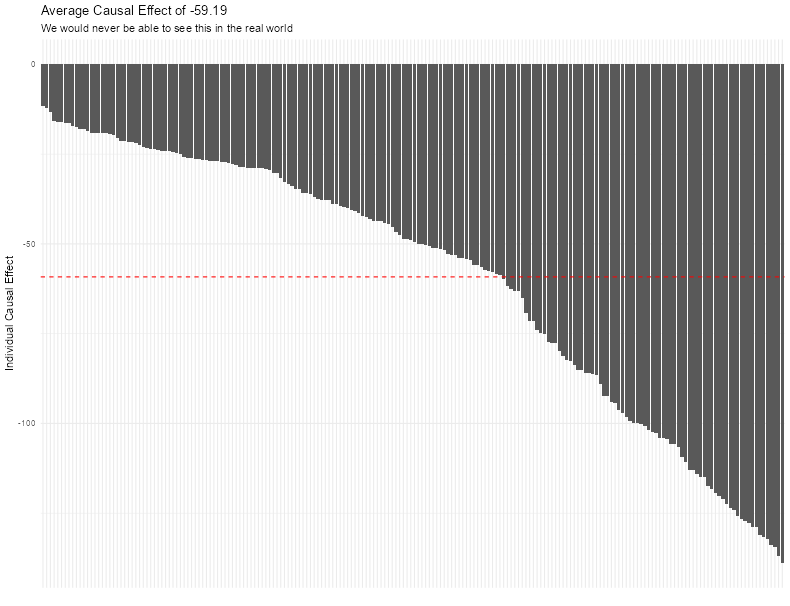
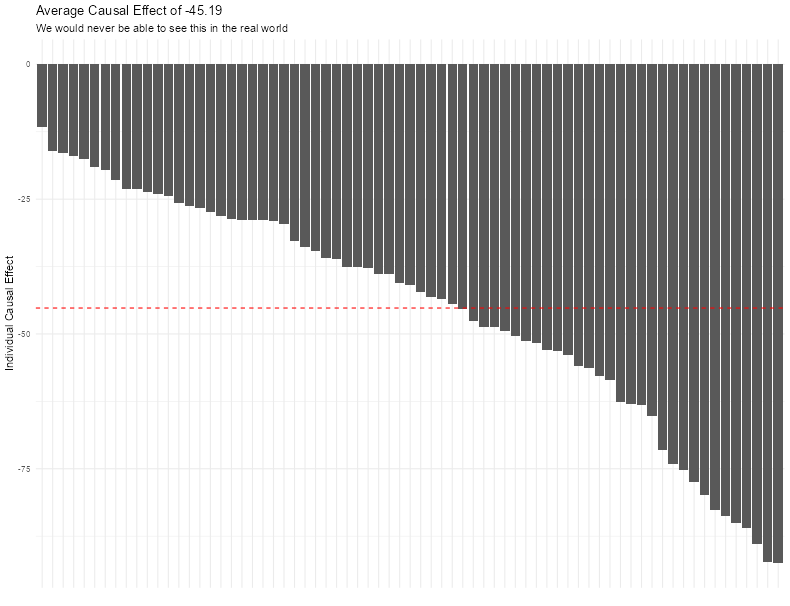
fin bart and bart ci

Changed region(s): [[0.0304, 0.0891, 1.0, 0.9505], [0.0304, 0.0, 0.3646, 0.0594]]

diff --git a/bart.html b/bart.html
@@ -229,10 +229,10 @@
           We'll also make new data points so this feels a little different than the predictive section, but looks the same. <br><br>
 
           <span style="font-weight:bold">Choosing an Estimand</span> <br><br>
-          In this example, we’ll be estimating the effect of the treatment on the treated, or ATT. 
+          In this example, we'll be estimating the effect of the treatment on the treated, or ATT. 
           It appears that every runner under and up to 50 wore HyperShoes. 
           Without runners older than 50 in the treatment group,
-           we don’t have enough available information to infer about counterfactuals for the average treatment effect (ATE)
+           we don't have enough available information to infer about counterfactuals for the average treatment effect (ATE)
           or the effect of the treatment on the controls (ATC) 
           but we do have complete overlap for the ATT,
           and we have enough information to infer about what would have happened if those participants had not worn HyperShoes! <br><br>
@@ -247,7 +247,7 @@
         <p class="topic" data-image="assets/hypershoe-bal-plot.png">
           <strong class="text-2xl">Imbalance</strong><br>
           In observational studies, 
-          the treatment is not randomly assigned and we no longer expect covariates to be balanced between the treatment and control group.
+          the treatment is not randomly assigned and we no longer expect covariates to be balanced <span style="font-style: italic;">in expectation</span> between the treatment and control group.
            So it's not surprising in this study that on average, runners in the treatment group are about 14 years younger than the runners in the control group. <br><br>
 
            We will need to rely on a statistical model to correct this imbalance or else the substantial difference in age will bias our estimate of the ATT.
@@ -288,7 +288,7 @@
         </p>
 
          <p class="topic" data-image="assets/lm-estimates.png">
-          <strong class="text-2xl">Linear Regression</strong><br>
+          <strong class="text-2xl">Regression with All Confounders</strong><br>
           When the relationships between covariates and the outcome are non-linear,
            the linear regression estimate for the ATT is likely to be biased.<br>
           In our situation the estimate is -51.8 which is noticeably different from the true ATT!
@@ -309,8 +309,32 @@
           Identifying which variables need to be transformed or which interaction term would need to be added would quickly become impossible.
         </p>
 
-        <p class="topic">
-          <strong class="text-2xl">Summary</strong><br>
+        <p class="topic" data-image="assets/bart-att.png">
+          <strong class="text-2xl">BART with All Confounders</strong><br>
+          BART does not assume the relationship between the covariates and the response are linear.
+          The BART estimate of the ATT is -44.45 which is the closest!<br><br>
+
+          The BART algorithm automatically learns about any non-linearities and accounts for these and for complex interactions between variables.
+          Unlike linear regression and difference in means estimation of causal effects,
+           the standard approach to BART for causal inference limits its inference to the part of the sample we are attempting to make inferences about
+           and this decision is generally based on properties of the sample such as overlap.<br><br>
+
+          For instance in our example our BART model is only modeling the causal effect for the treatment group.
+          This is because we are estimating the ATT and we limited our inference to the ATT because of overlap issues!<br><br>
+          In contrast, the standard difference-in-means and linear-regression estimates for the ATE, ATT and ATC are the same.
+          BART is able to identify that causal effects for the group of people that received the treatment may be drastically different 
+          than the group that received the control!<br><br>
+          
+          Remember that BART is not magic.
+          When the treatment is not randomly assigned,
+           BART assumes that all confounders are included in the model! <br><br>
+
+          <span style="font-weight:bold">Other Assumptions BART Makes</span> <br><br>
+          If we make the following structural assumptions:<br>
+          * Ignorability (all confounders measured)<br>
+          * SUTVA (No spillover and same version of treatment)<br>
+          * Overlap (In covariate space we see both treated and controls)<br><br>
+          
         </p>
 
         <p class="topic">
